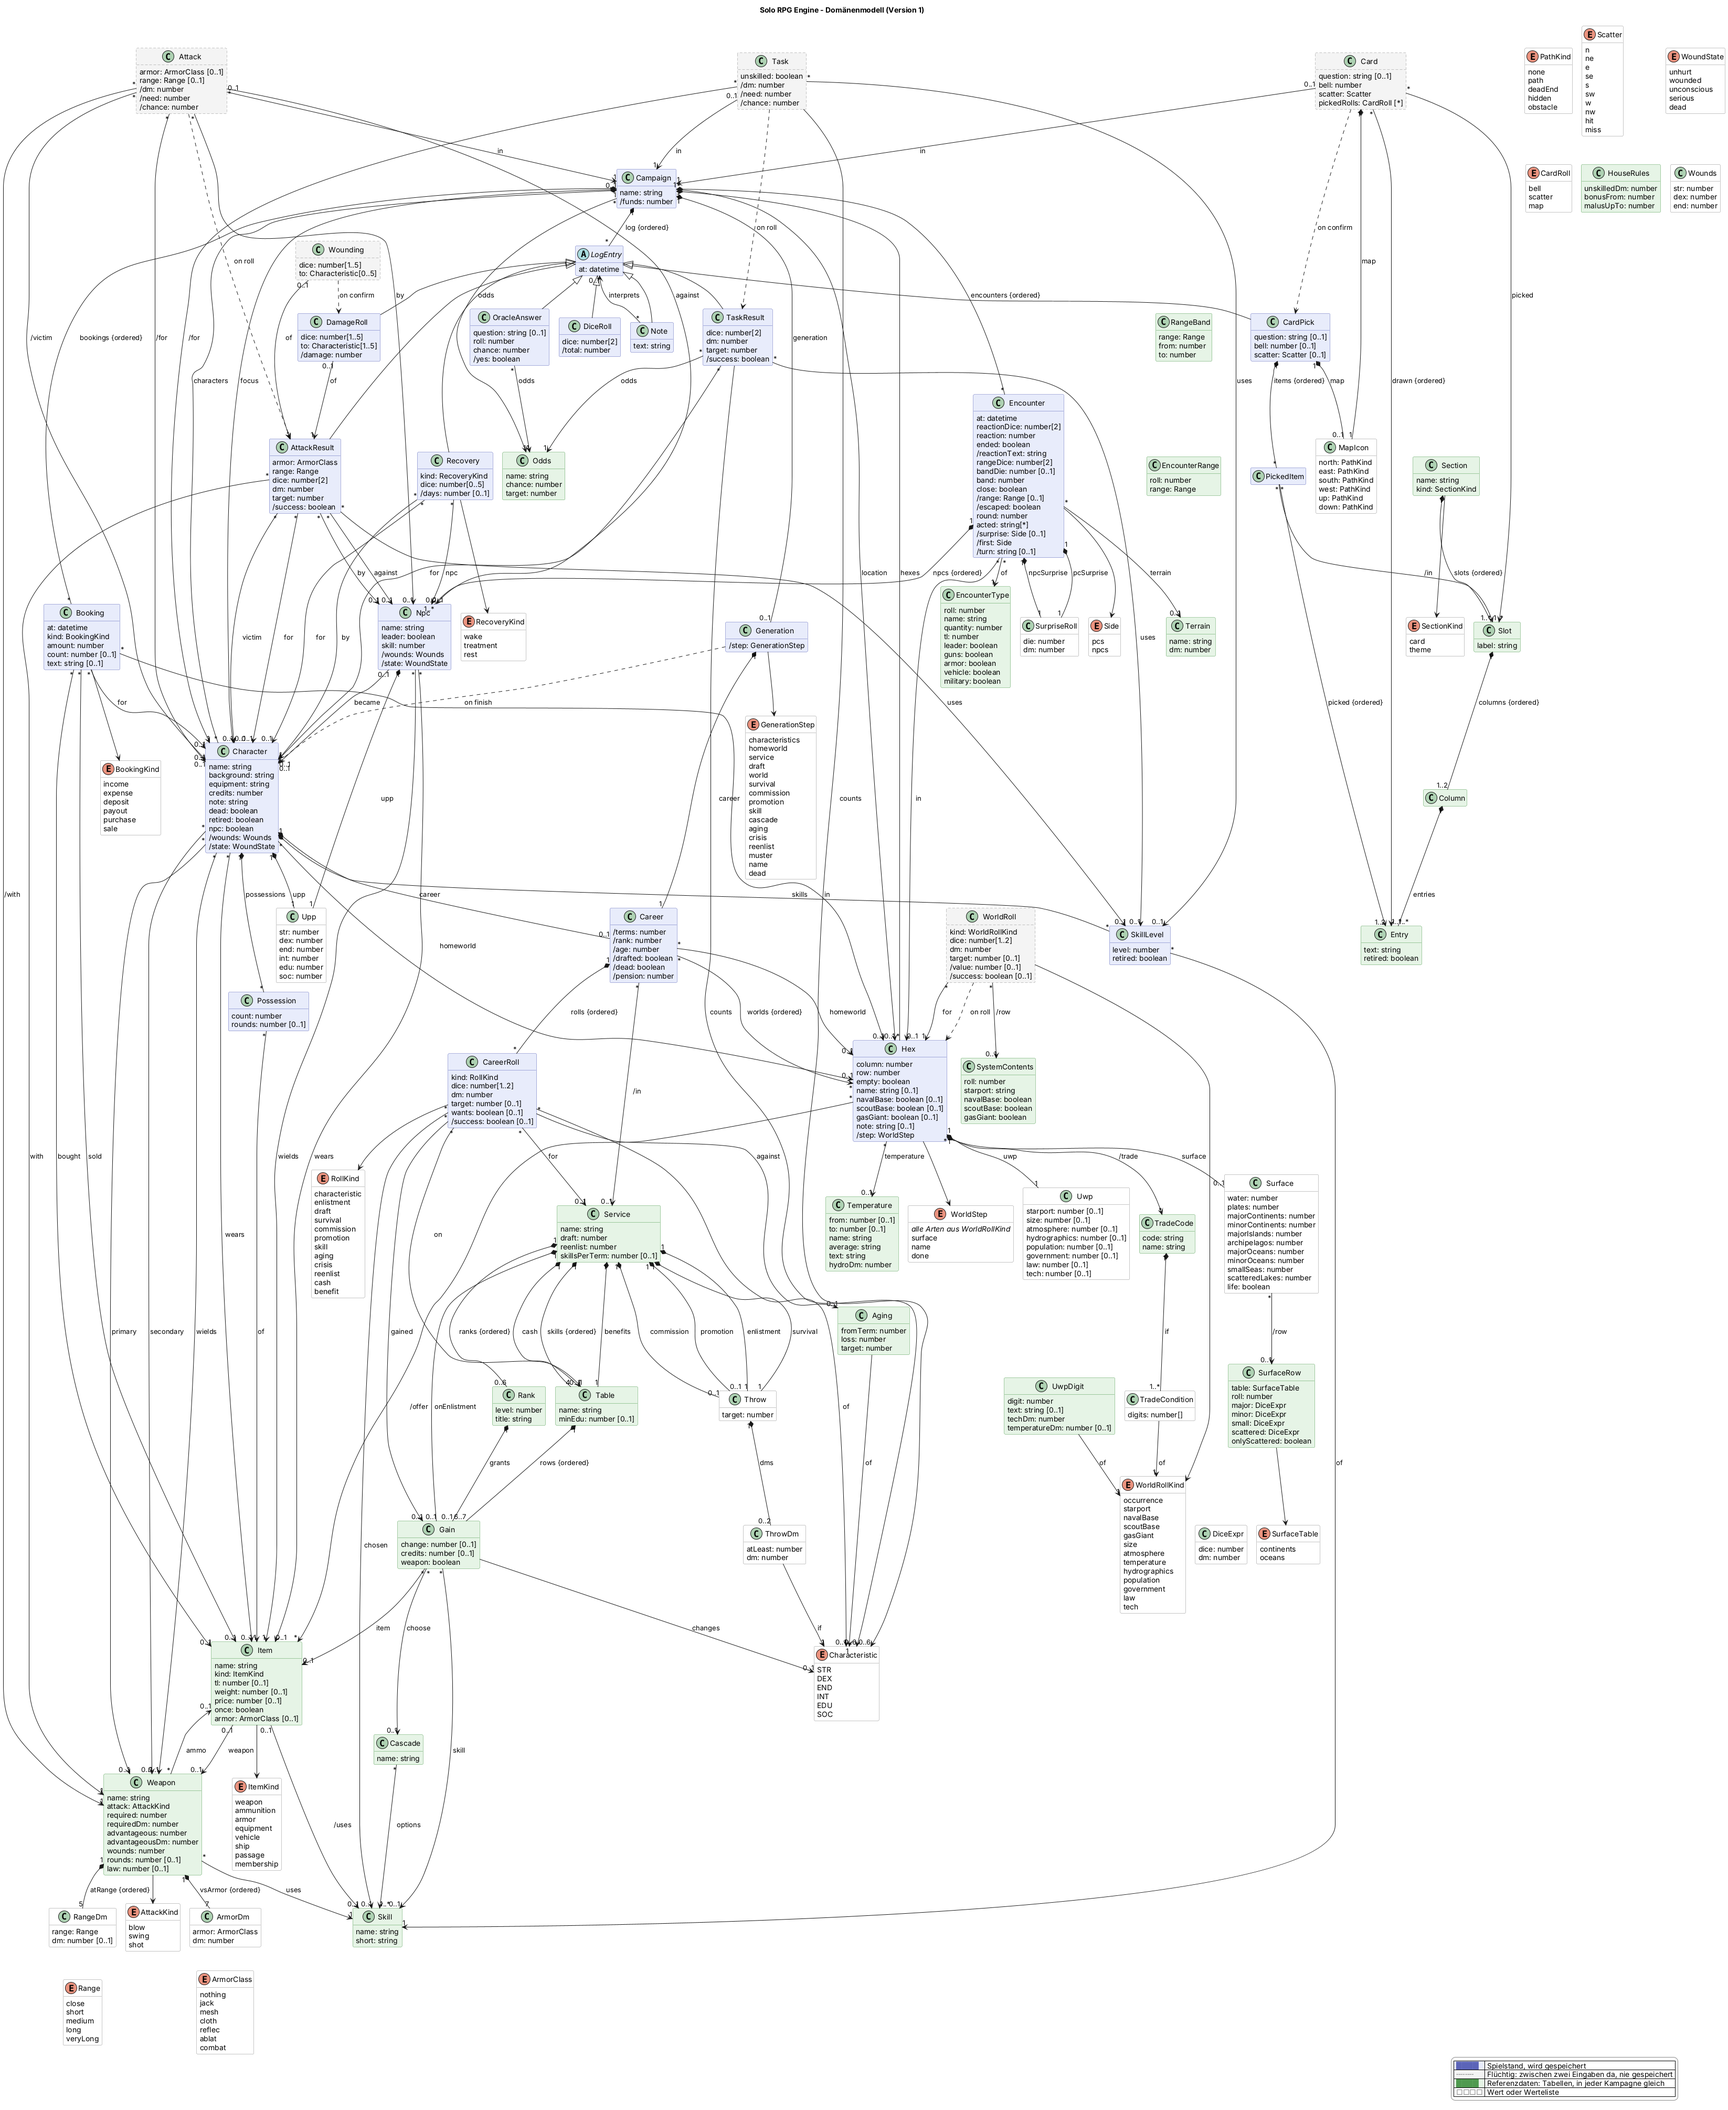
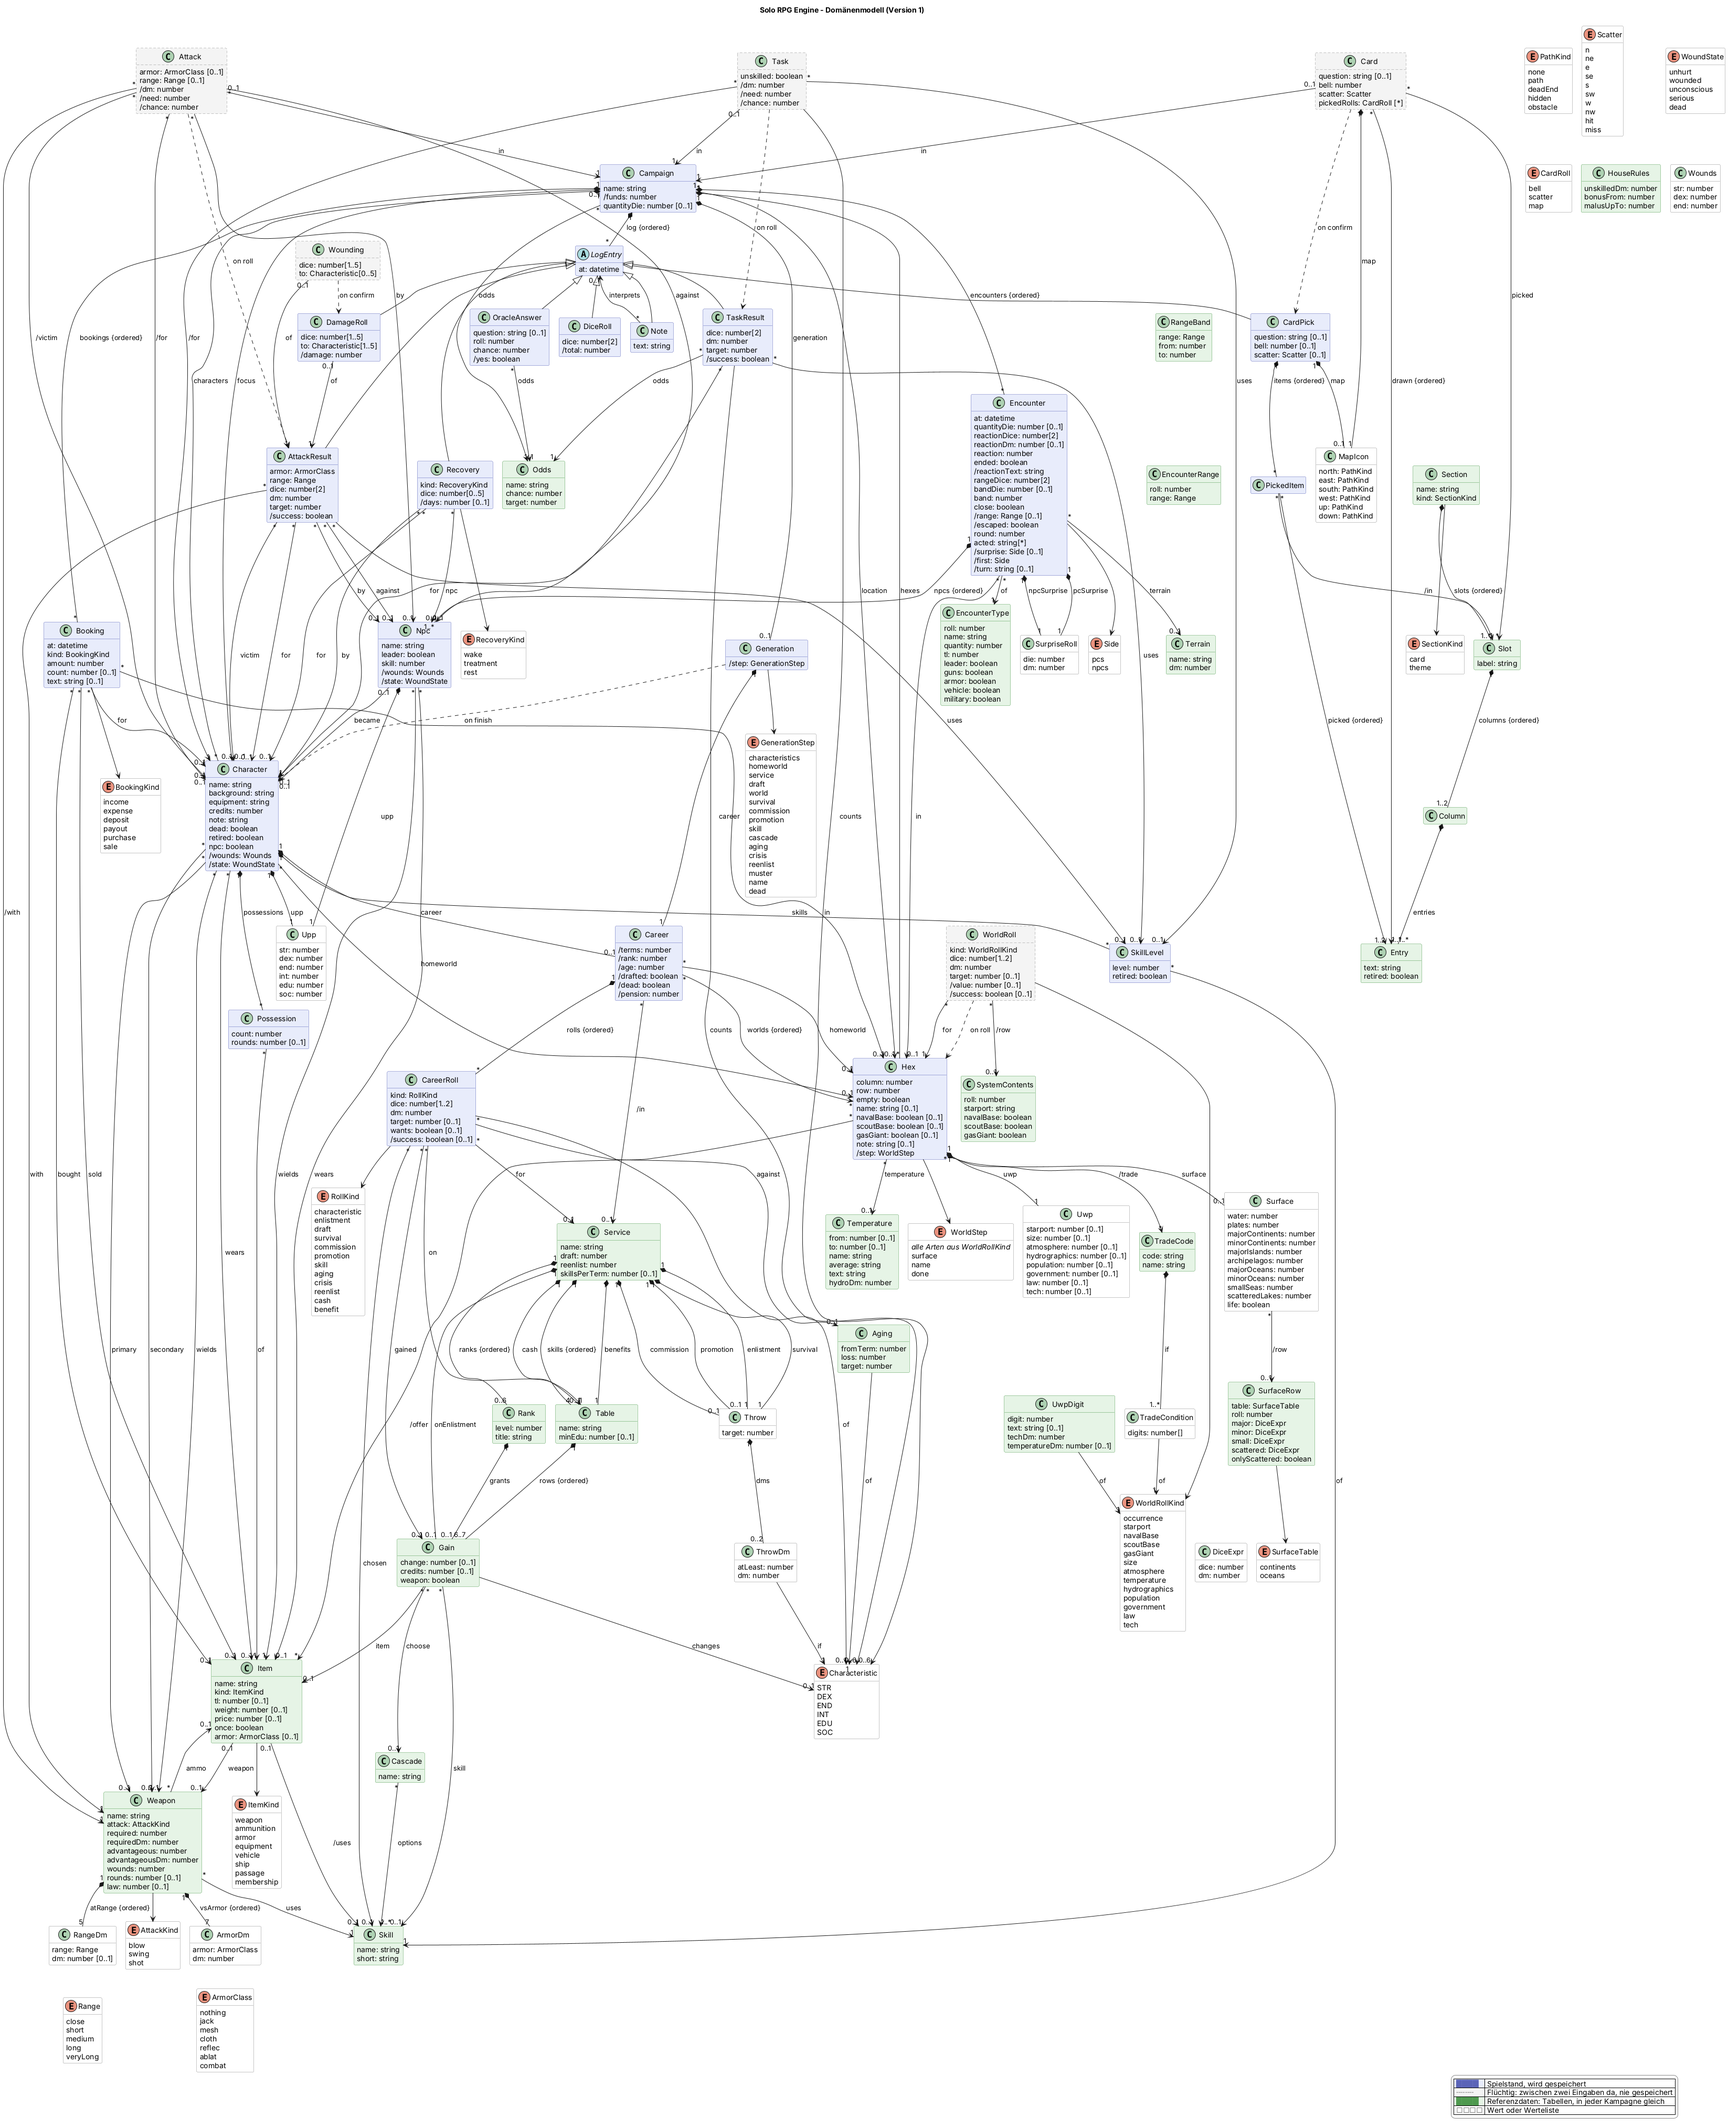
Modell: Würfel für die Anzahl der Begegnung und DM +1 auf die Reaktion (Entwurf)
Statt einer festen Anzahl wählt man den Würfel der Anzahl (W6 nach den
Regeln, W4 oder W3 zum Ausgleichen) für die Kampagne; die Begegnung hält
ihn fest. Die Reaktion bekommt den DM +1 für 5+ Terms in Army, Navy,
Scouts oder Marines (S. 21) und hält ihren DM fest.

Claude-Session: https://claude.ai/code/session_016ZF27xu9v66e9jS7FyCtgY

diff --git a/docs/domain-model.md b/docs/domain-model.md
@@ -130,6 +130,12 @@ Lücken unter [Wo der Code noch nicht folgt](#wo-der-code-noch-nicht-folgt).
 > (`close`), der Würfel für das Startband (`bandDie`), abgeleitet die Reichweite (`/range`) und
 > `/escaped`; als Referenzdaten `RangeBand`. Der UI-Entwurf dazu (freigegeben am 4. November 2026)
 > liegt unter [`ui-entwurf/range-bands/`](ui-entwurf/range-bands/).
+>
+> **Vorgeschlagen am 6. November 2026, wartet auf Freigabe:** der **Würfel für die Anzahl** einer
+> Begegnung, W6 nach den Regeln oder W4 bzw. W3 zum Ausgleichen, statt einer festen Anzahl; dazu der
+> **DM +1 auf die Reaktion** für 5 oder mehr Terms in Army, Navy, Scouts oder Marines (siehe
+> *Begegnung*). Neu im Bild: `Campaign.quantityDie`, `Encounter.quantityDie` und
+> `Encounter.reactionDm`.
 
 ![Domänenmodell der Solo RPG Engine](domain-model.png)
 
@@ -210,7 +216,8 @@ Vacc Suit, Jack-of-all-Trades, …), Terms, Cr.
 | Schuss im Magazin | `Possession.rounds`, `Weapon.rounds` | Wie viele Schuss eine Schusswaffe gerade geladen hat bzw. voll fasst |
 | Verboten ab Gesetz | `Weapon.law` | Ab dieser Gesetzesstufe ist die Waffe verboten (S. 14), z. B. Body Pistol ab 1 |
 | Begegnung | `Encounter` | Eine Gruppe von NSC, auf die die Gruppe trifft, z. B. „5 Thugs“; gewürfelt nach der Random Encounter List (S. 21) |
-| Art der Begegnung | `EncounterType` | Eine Zeile der Random Encounter List: Anzahl in W6, Name, TL-Abweichung, Anführer (L), Schusswaffen (G), Rüstung (A), Fahrzeug (V) |
+| Art der Begegnung | `EncounterType` | Eine Zeile der Random Encounter List: Anzahl in Würfeln, Name, TL-Abweichung, Anführer (L), Schusswaffen (G), Rüstung (A), Fahrzeug (V) |
+| Würfel der Anzahl | `Campaign.quantityDie`, `Encounter.quantityDie` | Der Würfel, mit dem die Anzahl der NSC gewürfelt wird: W6 nach den Regeln, W4 oder W3 zum Ausgleichen |
 | Reaktion | `Encounter.reaction` | 2W6 auf die Reactions-Tabelle (S. 21): 2 sofortiger Angriff … 12 freundlich |
 | NSC der Begegnung | `Npc` | Ein Gegner oder Fremder in einer Begegnung, mit UPP, Waffe, Rüstung, Fertigkeit und Wunden |
 | Anführer | `Npc.leader` | Der NSC mit der besten Ausrüstung, wenn die Begegnung einen hat (L) |
@@ -563,10 +570,16 @@ Vacc Suit, Jack-of-all-Trades, …), Terms, Cr.
     Power Packs.
 - **Begegnung.** Im Reiter Kampf würfelt man auf dem Aufenthaltsort eine **Begegnung** (`Encounter`),
   ohne weitere Eingabe; man kann die Art auch aus der Liste wählen, die Anzahl wird dann trotzdem
-  gewürfelt, außer man gibt sie vor.
+  gewürfelt.
   - *Art*: 1W6 und 1W6 auf die Random Encounter List (S. 21), z. B. 14 = 3W6 Rowdies (L). Die Zeilen
     61–66 sind leer: keine Begegnung, nichts wird angelegt.
-  - *Anzahl*: so viele W6, wie die Art angibt (mindestens 1 NSC).
+  - *Anzahl*: so viele Würfel, wie die Art angibt (mindestens 1 NSC). Nach den Regeln ist es der
+    W6; zum Ausgleichen, etwa mit nur ein oder zwei SC, wählt man vor dem Würfeln W4 oder W3, dann
+    kommen z. B. 3W3 statt 3W6 Rowdies. Die Wahl ist der **Würfel der Anzahl** der Kampagne
+    (`Campaign.quantityDie`, 3, 4 oder 6; fehlt er, W6); sie gilt für alle folgenden Begegnungen,
+    bis man sie ändert, ob man würfelt oder die Art wählt. Die Begegnung hält ihren Würfel fest
+    (`Encounter.quantityDie`), damit die Übersicht z. B. „3W3“ zeigt; fehlt er (Begegnungen von
+    vorher), war es W6.
   - *TL der Gruppe*: TL der Welt plus die Abweichung der Art (z. B. +1 bei Soldiers), mindestens 0.
   - *Jeder NSC* (`Npc`) bekommt 2W6 je Attribut, einen Namen von der Tafel NSC (Vor- und Nachname,
     irdisch oder spacig zufällig), eine Waffe (`wields`) und mit A eine Rüstung (`wears`): Ohne G
@@ -577,9 +590,12 @@ Vacc Suit, Jack-of-all-Trades, …), Terms, Cr.
     höchsten TL, bei Gleichstand die teuerste, ebenso die Rüstung, auch ohne A) und Fertigkeit 2.
   - *Fahrzeug* (V) hält die Art fest; im Kampf zählt es vorerst nicht.
   - *Entfernung und Überraschung* werden beim Anlegen mitgewürfelt (siehe *Kampfsimulation*).
-  - *Reaktion* (`reaction`): 2W6 (`reactionDice`), DM −1 auf einer Welt mit Bevölkerung 9+; eine
-    echte 2 oder 12 bleibt, sonst begrenzt auf 3 bis 11. Der Text (`/reactionText`) kommt aus der
-    Tabelle.
+  - *Reaktion* (`reaction`): 2W6 (`reactionDice`) plus DM (`reactionDm`): +1, wenn ein lebender
+    SC 5 oder mehr Terms in Army, Navy, Scouts oder Marines gedient hat (nach seinem Lebenslauf; SC
+    ohne Lebenslauf zählen nicht), −1 auf einer Welt mit Bevölkerung 9+; beides zusammen ±0. Eine
+    echte 2 oder 12 bleibt, sonst begrenzt auf 3 bis 11. Der DM wird beim Würfeln festgehalten,
+    damit ein späterer Tod oder Ausblenden ihn nicht rückwirkend ändert; fehlt er (Begegnungen von
+    vorher), gilt der DM der Welt. Der Text (`/reactionText`) kommt aus der Tabelle.
   - *Zeigen*: Nach dem Würfeln zeigt die App die Begegnung, bevor der Kampf beginnt: wer kommt (jeder
     NSC mit Waffe, Rüstung, Anführer), und die Würfe für Reaktion, Entfernung und Überraschung, jeder
     mit Würfeln, DM und Ergebnis. Das ist Anzeige; gespeichert ist es schon.
